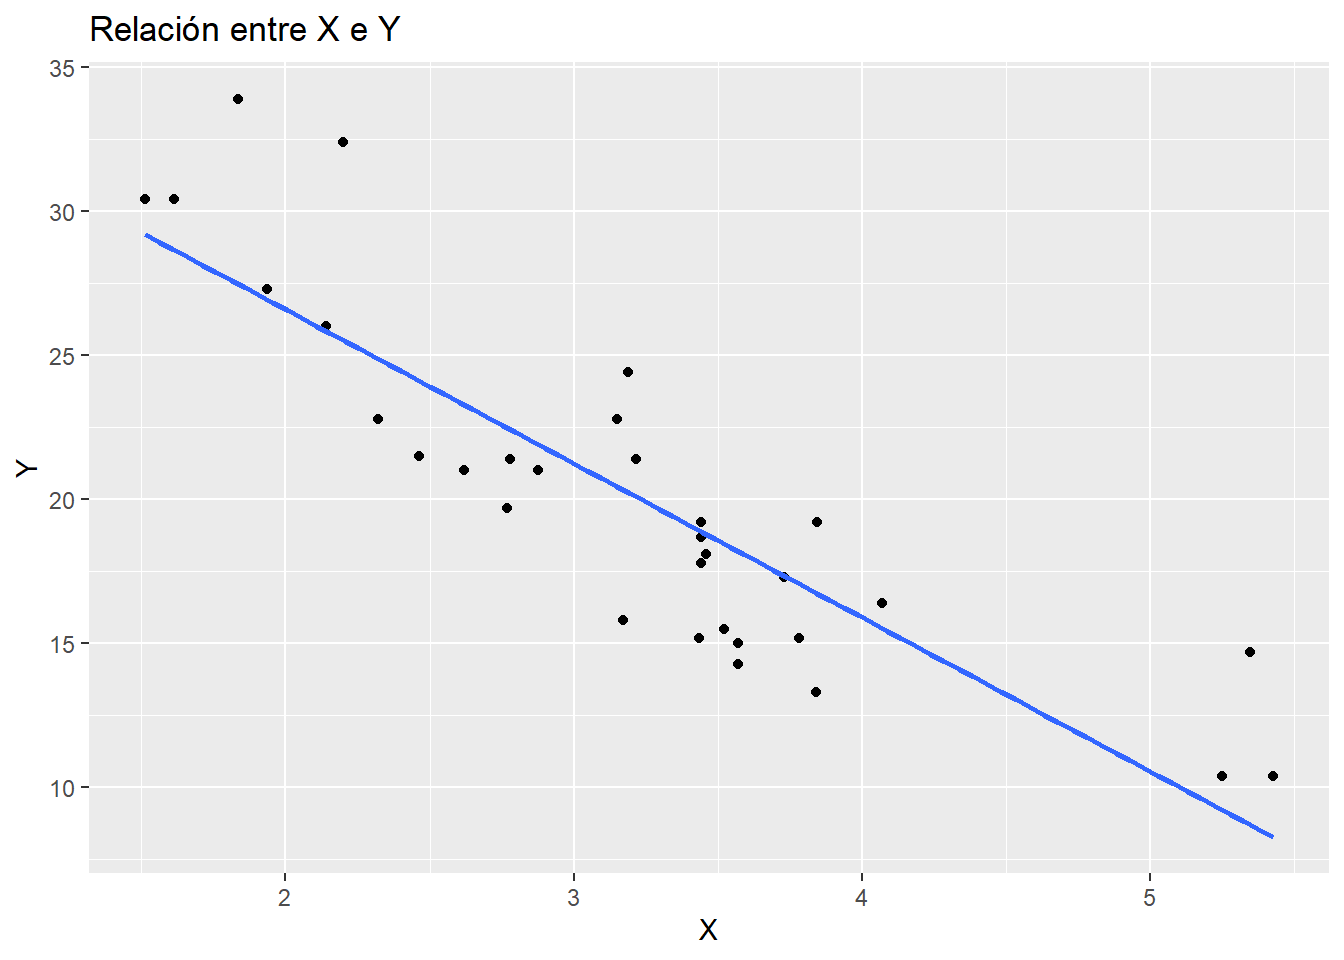
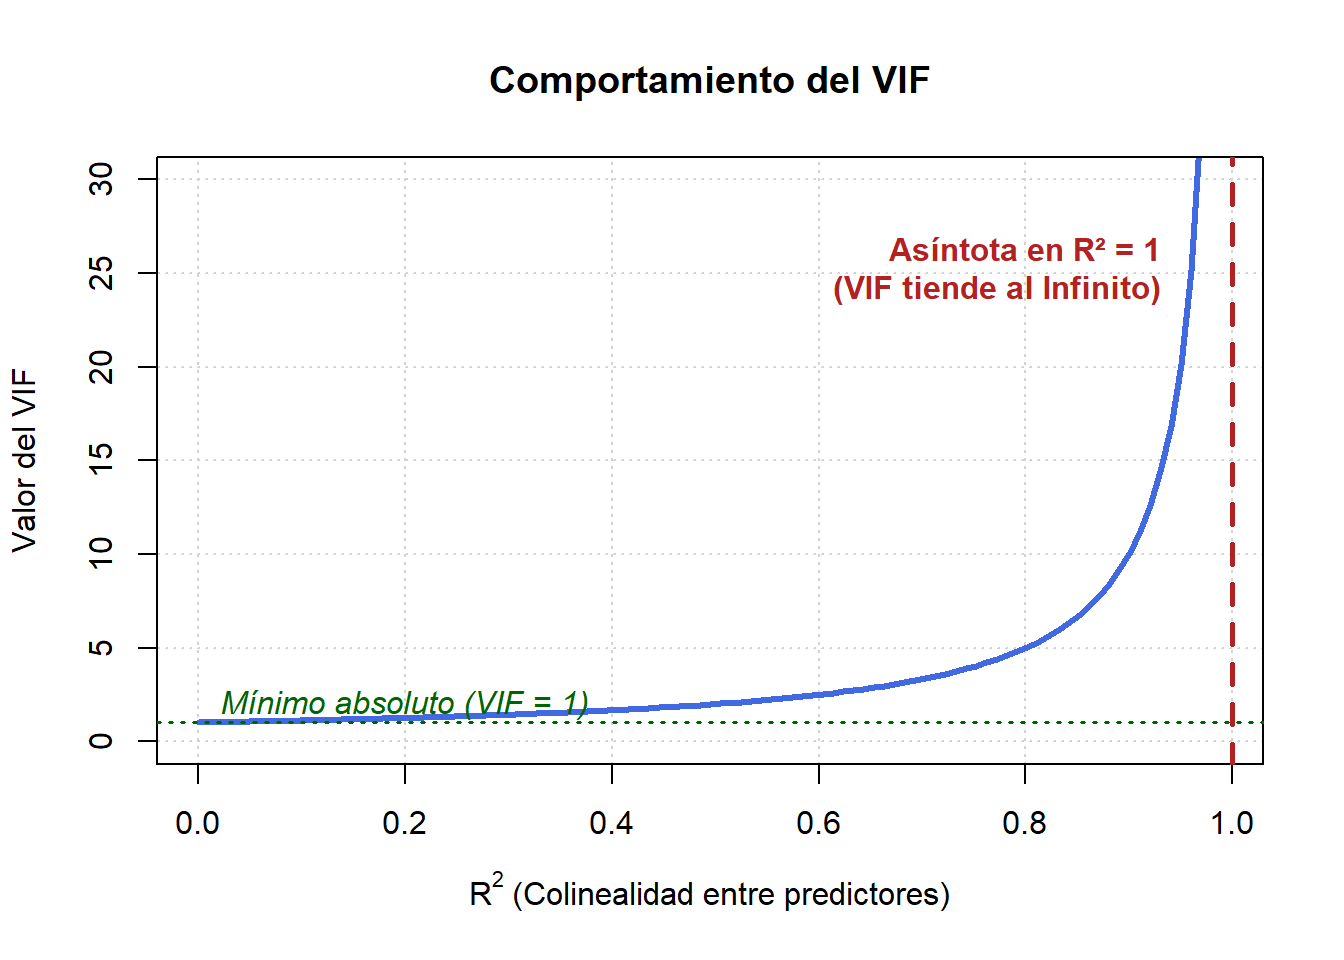
cambios

diff --git a/docs/multicolinealidad.html b/docs/multicolinealidad.html
@@ -23,7 +23,7 @@
 <meta name="author" content="Joakina Quezada &amp; Maximiliano Stuardo" />
 
 
-<meta name="date" content="2026-08-05" />
+<meta name="date" content="2026-08-11" />
 
   <meta name="viewport" content="width=device-width, initial-scale=1" />
   <meta name="apple-mobile-web-app-capable" content="yes" />
@@ -72,12 +72,11 @@
       <nav role="navigation">
 
 <ul class="summary">
-<li class="chapter" data-level="" data-path="index.html"><a href="index.html"><i class="fa fa-check"></i>Sobre los Autores</a></li>
-<li class="chapter" data-level="" data-path="introducción-qué-es-la-econometría.html"><a href="introducción-qué-es-la-econometría.html"><i class="fa fa-check"></i>Introducción: ¿Qué es la Econometría?</a>
+<li class="chapter" data-level="" data-path="index.html"><a href="index.html"><i class="fa fa-check"></i>Sobre los Autores</a>
 <ul>
-<li class="chapter" data-level="0.1" data-path="introducción-qué-es-la-econometría.html"><a href="introducción-qué-es-la-econometría.html#definici%C3%B3n-de-econometr%C3%ADa"><i class="fa fa-check"></i><b>0.1</b> Definición de Econometría</a></li>
-<li class="chapter" data-level="0.2" data-path="introducción-qué-es-la-econometría.html"><a href="introducción-qué-es-la-econometría.html#importancia-de-la-econometr%C3%ADa"><i class="fa fa-check"></i><b>0.2</b> Importancia de la Econometría</a></li>
-<li class="chapter" data-level="0.3" data-path="introducción-qué-es-la-econometría.html"><a href="introducción-qué-es-la-econometría.html#correlaci%C3%B3n-y-causalidad"><i class="fa fa-check"></i><b>0.3</b> Correlación y Causalidad</a></li>
+<li class="chapter" data-level="0.1" data-path="index.html"><a href="index.html#definici%C3%B3n-de-econometr%C3%ADa"><i class="fa fa-check"></i><b>0.1</b> Definición de Econometría</a></li>
+<li class="chapter" data-level="0.2" data-path="index.html"><a href="index.html#importancia-de-la-econometr%C3%ADa"><i class="fa fa-check"></i><b>0.2</b> Importancia de la Econometría</a></li>
+<li class="chapter" data-level="0.3" data-path="index.html"><a href="index.html#correlaci%C3%B3n-y-causalidad"><i class="fa fa-check"></i><b>0.3</b> Correlación y Causalidad</a></li>
 </ul></li>
 <li class="chapter" data-level="1" data-path="regresión-lineal-simple.html"><a href="regresión-lineal-simple.html"><i class="fa fa-check"></i><b>1</b> Regresión Lineal Simple</a>
 <ul>
@@ -105,6 +104,7 @@
 <ul>
 <li class="chapter" data-level="3.1" data-path="multicolinealidad.html"><a href="multicolinealidad.html#multicolinealidad-perfecta"><i class="fa fa-check"></i><b>3.1</b> Multicolinealidad Perfecta</a></li>
 <li class="chapter" data-level="3.2" data-path="multicolinealidad.html"><a href="multicolinealidad.html#multicolinealidad-no-perfecta"><i class="fa fa-check"></i><b>3.2</b> Multicolinealidad No Perfecta</a></li>
+<li class="chapter" data-level="3.3" data-path="multicolinealidad.html"><a href="multicolinealidad.html#factor-inflacionario-de-la-varianza"><i class="fa fa-check"></i><b>3.3</b> Factor Inflacionario de la Varianza</a></li>
 </ul></li>
 <li class="chapter" data-level="4" data-path="variables-dummy.html"><a href="variables-dummy.html"><i class="fa fa-check"></i><b>4</b> Variables Dummy</a>
 <ul>
@@ -163,27 +163,39 @@
 <div id="multicolinealidad-perfecta" class="section level2 hasAnchor" number="3.1">
 <h2><span class="header-section-number">3.1</span> Multicolinealidad Perfecta<a href="multicolinealidad.html#multicolinealidad-perfecta" class="anchor-section" aria-label="Anchor link to header"></a></h2>
 <p>La multicolinealidad perfecta es cuando tenemos dentro de un modelo, una variable regresora que se puede escribir como combinación lineal de otra. Sea el siguiente modelo:</p>
-<p><span class="math display">\[
-Y = \beta_0 + \beta_1X_1 + \beta_2X_2 + \varepsilon
-\]</span></p>
+<p><span class="math display">\[Y = \beta_0 + \beta_1X_1 + \beta_2X_2 + \varepsilon\]</span></p>
 <p>Donde <span class="math inline">\(X_2 = 2X_1\)</span>, por ejemplo. Si reemplazamos esa especificación para $X_24 tendríamos que:</p>
-<p><span class="math display">\[
-Y = \beta_0 + \beta_1X_1 + \beta_2 \cdot 2X_1 + \varepsilon
-\]</span></p>
+<p><span class="math display">\[Y = \beta_0 + \beta_1X_1 + \beta_2 \cdot 2X_1 + \varepsilon\]</span></p>
 <p>Y luego:</p>
-<p><span class="math display">\[
-Y = \beta_0 + [\beta_1 + 2\beta_2]X_1 + \varepsilon
-\]</span></p>
+<p><span class="math display">\[Y = \beta_0 + [\beta_1 + 2\beta_2]X_1 + \varepsilon\]</span></p>
 <p>Y a esta combinación lineal de betas que está multiplicando a <span class="math inline">\(X_1\)</span> le llamaremos <span class="math inline">\(\beta^*\)</span>, tal que:</p>
-<p><span class="math display">\[
-Y = \beta_0 + \beta^*X_1 + \varepsilon
-\]</span></p>
+<p><span class="math display">\[Y = \beta_0 + \beta^*X_1 + \varepsilon\]</span></p>
 <p>Matemáticamente lo que esta ocurriendo es que, al ser <span class="math inline">\(X_2\)</span> combinación lineal de <span class="math inline">\(X_1\)</span> (devolviéndonos al estimador del vector de parámetros) incurriríamos en el siguiente problema:</p>
 <p><span class="math display">\[\hat{\beta} = (X^TX)^{-1}X^TY\]</span></p>
-<p>Como tenemos dos columnas que son combinaciones lineales, el determinante de la matriz <span class="math inline">\((X^TX) \neq 0\)</span>, por lo tanto la inversa de dicha matriz <strong>no está definida.</strong></p>
+<p>Como tenemos dos columnas que son combinaciones lineales, el determinante de la matriz <span class="math inline">\((X^TX) = 0\)</span>, por lo tanto la inversa de dicha matriz <strong>no está definida.</strong> De otra manera, cuando hay multicolinealidad perfecta, la correlación entre una y otra o varias variables es 1.</p>
 </div>
 <div id="multicolinealidad-no-perfecta" class="section level2 hasAnchor" number="3.2">
 <h2><span class="header-section-number">3.2</span> Multicolinealidad No Perfecta<a href="multicolinealidad.html#multicolinealidad-no-perfecta" class="anchor-section" aria-label="Anchor link to header"></a></h2>
+<p>En este caso cuando existe multicolinealidad no perfecta, a diferencia del caso anterior, observamos que existe una fuerte correlación entre ciertas variables, pero no perfecta.</p>
+<p>Esto genera distintas cosas, tales como:</p>
+<ol style="list-style-type: decimal">
+<li><strong>Varianza Alta:</strong> Los coeficientes cambian sustancialmente ante mínimos cambios en los datos.</li>
+<li><strong>Errores Estándar Altos:</strong> Los intervalos de confianza se hacen más amplios, lo cual dificulta rechazar la hipótesis nula, es decir, pierde significancia el coeficiente.</li>
+<li><strong>Dificultad para interpretar:</strong> Resulta complejo aislar el efecto individual de cada coeficiente.</li>
+</ol>
+</div>
+<div id="factor-inflacionario-de-la-varianza" class="section level2 hasAnchor" number="3.3">
+<h2><span class="header-section-number">3.3</span> Factor Inflacionario de la Varianza<a href="multicolinealidad.html#factor-inflacionario-de-la-varianza" class="anchor-section" aria-label="Anchor link to header"></a></h2>
+<p>Una de las formas de detectar multicolinealidad entre variables se puede realizar a través del <strong>Factor Inflacionario de la Varianza (VIF).</strong> Por definición, el factor inflacionario de la varianza mide cuanto aumenta la varianza de un coeficiente debido a la correlación entre las variables regresoras. Por fórmula cuando hay únicamente dos regresores:</p>
+<p><span class="math display">\[VIF = \frac{1}{Corr^2(X_1,X_2)}\]</span>
+Por el contrario, si tuviésemos más regresoras la fórmula corresponde a:</p>
+<p><span class="math display">\[VIF = \frac{1}{1-R^2_j}\]</span>
+Donde <span class="math inline">\(R^2_j\)</span> corresponde al R-cuadrado de una regresión auxiliar que resulta de regresionar la variable <span class="math inline">\(X_j\)</span> con los demás regresores tal que:</p>
+<p><span class="math display">\[X_j = \gamma_0 + \gamma_1X_1 + \gamma_2X_2 + ... + \gamma_nX_n + u\]</span>
+Si analizamos esto, podemos ver que si los demás regresores explican completamente la variable, es decir <span class="math inline">\(R^2_j = 1\)</span>, entonces <span class="math inline">\(VIF \rightarrow \infty\)</span>, y por otra parte si los demás regresores no explican nada de la variable, es decir, <span class="math inline">\(R^2_j = 0\)</span>, entonces <span class="math inline">\(VIF = 0\)</span>, por lo tanto no existe multicolinealidad. Como el <span class="math inline">\(R^2 \in \{0,1\}\)</span> entonces el dominio del <span class="math inline">\(VIF\)</span> es <span class="math inline">\(Dom: \{0,1\}\)</span> y el <span class="math inline">\(VIF\)</span> puede tomar valores en el intervalo <span class="math inline">\([0,\infty[\)</span>.</p>
+<p>Gráficamente el <span class="math inline">\(VIF\)</span> se ve de la siguiente manera:</p>
+<p><img src="main_files/figure-html/unnamed-chunk-1-1.png" alt="" width="672" /></p>
+<p>Una ‘’solución’’ a la multicolinealidad es eliminar la variable que genera multicolinealidad, con el riesgo de tener sesgo por variable omitida. En teoría con esto tenemos un trade-off entre multicolinealidad y sesgo, el cual depende necesariamente de la pregunta de investigación o propósito de realizar el modelo.</p>
 
 </div>
 </div>

diff --git a/docs/404.html b/docs/404.html
@@ -23,7 +23,7 @@
 <meta name="author" content="Joakina Quezada &amp; Maximiliano Stuardo" />
 
 
-<meta name="date" content="2026-08-05" />
+<meta name="date" content="2026-08-11" />
 
   <meta name="viewport" content="width=device-width, initial-scale=1" />
   <meta name="apple-mobile-web-app-capable" content="yes" />
@@ -72,12 +72,11 @@
       <nav role="navigation">
 
 <ul class="summary">
-<li class="chapter" data-level="" data-path="index.html"><a href="index.html"><i class="fa fa-check"></i>Sobre los Autores</a></li>
-<li class="chapter" data-level="" data-path="introducción-qué-es-la-econometría.html"><a href="introducción-qué-es-la-econometría.html"><i class="fa fa-check"></i>Introducción: ¿Qué es la Econometría?</a>
+<li class="chapter" data-level="" data-path="index.html"><a href="index.html"><i class="fa fa-check"></i>Sobre los Autores</a>
 <ul>
-<li class="chapter" data-level="0.1" data-path="introducción-qué-es-la-econometría.html"><a href="introducción-qué-es-la-econometría.html#definici%C3%B3n-de-econometr%C3%ADa"><i class="fa fa-check"></i><b>0.1</b> Definición de Econometría</a></li>
-<li class="chapter" data-level="0.2" data-path="introducción-qué-es-la-econometría.html"><a href="introducción-qué-es-la-econometría.html#importancia-de-la-econometr%C3%ADa"><i class="fa fa-check"></i><b>0.2</b> Importancia de la Econometría</a></li>
-<li class="chapter" data-level="0.3" data-path="introducción-qué-es-la-econometría.html"><a href="introducción-qué-es-la-econometría.html#correlaci%C3%B3n-y-causalidad"><i class="fa fa-check"></i><b>0.3</b> Correlación y Causalidad</a></li>
+<li class="chapter" data-level="0.1" data-path="index.html"><a href="index.html#definici%C3%B3n-de-econometr%C3%ADa"><i class="fa fa-check"></i><b>0.1</b> Definición de Econometría</a></li>
+<li class="chapter" data-level="0.2" data-path="index.html"><a href="index.html#importancia-de-la-econometr%C3%ADa"><i class="fa fa-check"></i><b>0.2</b> Importancia de la Econometría</a></li>
+<li class="chapter" data-level="0.3" data-path="index.html"><a href="index.html#correlaci%C3%B3n-y-causalidad"><i class="fa fa-check"></i><b>0.3</b> Correlación y Causalidad</a></li>
 </ul></li>
 <li class="chapter" data-level="1" data-path="regresión-lineal-simple.html"><a href="regresión-lineal-simple.html"><i class="fa fa-check"></i><b>1</b> Regresión Lineal Simple</a>
 <ul>
@@ -105,6 +104,7 @@
 <ul>
 <li class="chapter" data-level="3.1" data-path="multicolinealidad.html"><a href="multicolinealidad.html#multicolinealidad-perfecta"><i class="fa fa-check"></i><b>3.1</b> Multicolinealidad Perfecta</a></li>
 <li class="chapter" data-level="3.2" data-path="multicolinealidad.html"><a href="multicolinealidad.html#multicolinealidad-no-perfecta"><i class="fa fa-check"></i><b>3.2</b> Multicolinealidad No Perfecta</a></li>
+<li class="chapter" data-level="3.3" data-path="multicolinealidad.html"><a href="multicolinealidad.html#factor-inflacionario-de-la-varianza"><i class="fa fa-check"></i><b>3.3</b> Factor Inflacionario de la Varianza</a></li>
 </ul></li>
 <li class="chapter" data-level="4" data-path="variables-dummy.html"><a href="variables-dummy.html"><i class="fa fa-check"></i><b>4</b> Variables Dummy</a>
 <ul>
